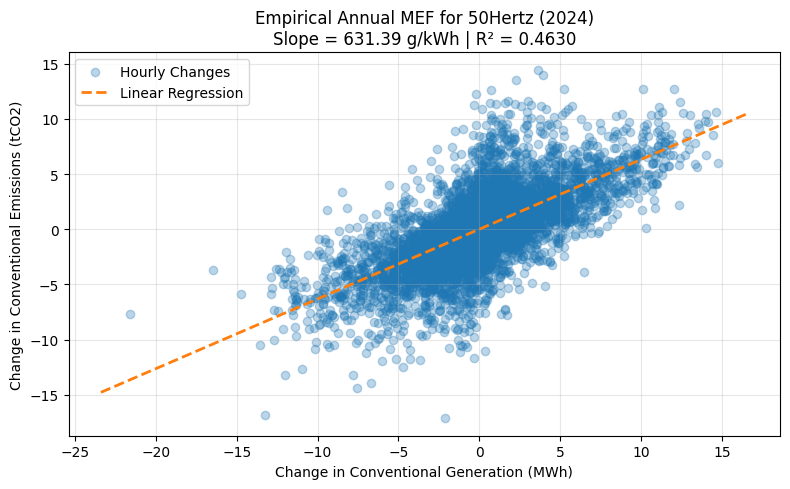
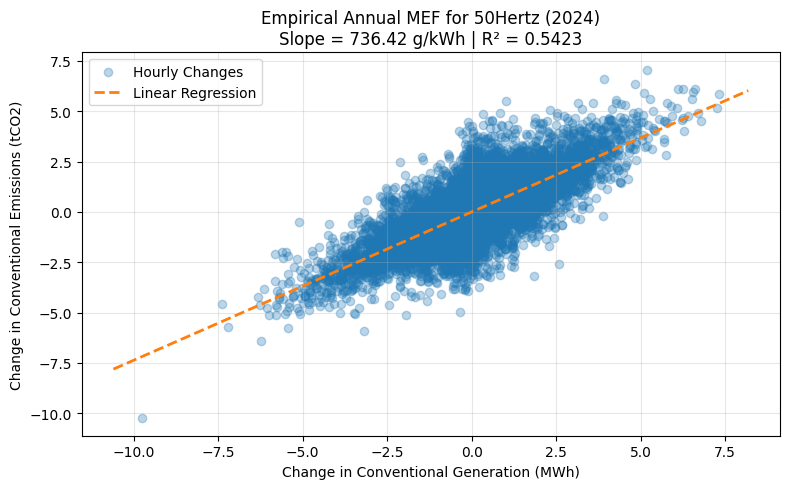
Automatic cross-regional validation

diff --git a/src/marginal_emissions/cli/validate_cli.py b/src/marginal_emissions/cli/validate_cli.py
@@ -219,24 +219,17 @@ def run_validation_command(operator, year, is_test, num_iterations):
 
     for file_path in files_to_process:
         _run_validation(file_path, is_test)
-
-@validation_group.command(name='cross-regional')
-@click.option(
-    '--is-test', '-t',
-    is_flag=True,
-    help='Flag to indicate a test run.'
-)
-def cross_regional_command(is_test):
-    """Run the cross-regional validation test (Test 2.2)."""
+        
+    # After individual validations, run the cross-regional validation
     logger.info("Starting cross-regional validation...")
-    validator = CrossRegionalValidator(is_test=is_test)
+    cross_regional_validator = CrossRegionalValidator(is_test=is_test)
     
-    results = validator.collect_results()
+    results = cross_regional_validator.collect_results()
     
     if results:
-        correlation = validator.run_correlation_test(results)
-        validator.plot_correlation(results, correlation)
-        validator.update_individual_summaries(results, correlation)
+        correlation = cross_regional_validator.run_correlation_test(results)
+        cross_regional_validator.plot_correlation(results, correlation)
+        cross_regional_validator.update_individual_summaries(results, correlation)
         logger.info("Cross-regional validation completed successfully.")
     else:
         logger.warning("Cross-regional validation could not be performed.")

diff --git a/src/marginal_emissions/core/validate.py b/src/marginal_emissions/core/validate.py
@@ -225,11 +225,8 @@ class MEFValidator:
             logger.warning("Columns 'delta_generation' or 'delta_emissions' not found, skipping Test 2.1.")
             return
 
-        # 1. Resample 15-min deltas to hourly deltas by summing them up
-        df_hourly_deltas = self.df[['delta_generation', 'delta_emissions']].resample('h').sum()
-        
         # 2. Drop the first row which might be incomplete and cause an outlier
-        df_reg = df_hourly_deltas.iloc[1:].dropna()
+        df_reg = self.df[['delta_generation', 'delta_emissions']].iloc[1:].dropna()
         
         if len(df_reg) < 2:
             logger.warning("Not enough hourly data points to run regression for Test 2.1. Skipping.")

diff --git a/README.md b/README.md
@@ -158,11 +158,8 @@ With the `mef-germany` environment active, the `mef`-tool can be used directly.
     # Run an analysis
     mef analysis run --operator Amprion --year 2023
     
-    # Run the validation
-    mef validation run --operator Amprion --year 2023
-    
-    # After running analysis and validation for all datasets run cross-regional validation
-    mef validation cross-regional
+    # Run the validation for one or all results. This also runs the cross-regional tests.
+    mef validation run --operator All --year All
     ```
 
 6.  **Accessing Results**: Since the project is running locally, all results will be saved directly into the `results` directory within the local filesystem.
@@ -219,30 +216,17 @@ mef analysis run [OPTIONS]
 
 ### 4. Validation
 
-The `validation` commands are used to validate the results of the analysis.
-
-#### `validation run`
-Runs the main validation on the results for a specific TSO and year.
+The `validation run` command validates the analysis results. It performs a series of tests on the data for a specific TSO and year (or all of them). After completing the individual validations, it automatically runs a cross-regional analysis to compare results across different grid areas.
 
 ```bash
 mef validation run [OPTIONS]
 ```
 
 **Options:**
-* `--operator`, `-tso`: The TSO to validate.
-* `--year`, `-y`: The year to validate.
+* `--operator`, `-tso`: The TSO to validate (`50Hertz`, `Amprion`, `TenneT`, `TransnetBW`, `All`).
+* `--year`, `-y`: The year to validate (`2023`, `2024`, `All`).
 * `--is-test`, `-t`: Whether to use test results.
 * `--num-iterations`: The number of iterations for the test run.
-
-#### `validation cross-regional`
-Runs a cross-regional validation test.
-
-```bash
-mef validation cross-regional [OPTIONS]
-```
-
-**Options:**
-* `--is-test`, `-t`: Whether to use test results.
 
 ### 5. Other Commands
 
@@ -313,8 +297,8 @@ sequenceDiagram
     end
     CLI-->>User: Log success/failure
 
-    User->>CLI: mef validation run --operator TenneT --year 2023
-    CLI->>CLI: _get_validation_files('TenneT', '2023')
+    User->>CLI: mef validation run --operator All --year All
+    CLI->>CLI: _get_validation_files('All', 'All')
     loop For each found file
         Files-->>CLI: Read (results/.../mef_final.csv)
         Files-->>CLI: Read (data/processed/final_*.csv)
@@ -324,9 +308,7 @@ sequenceDiagram
         MEFValidator->>Files: Write Plots (results/.../validation/*.png)
         MEFValidator->>Files: Write Data (results/.../validation/validation_summary_*.json)
     end
-    CLI-->>User: Log success/failure
 
-    User->>CLI: mef validation cross-regional
     CLI->>CrossRegionalValidator: __init__(is_test)
     CLI->>CrossRegionalValidator: collect_results()
     Files-->>CrossRegionalValidator: Read (results/.../validation/validation_summary_*.json)
